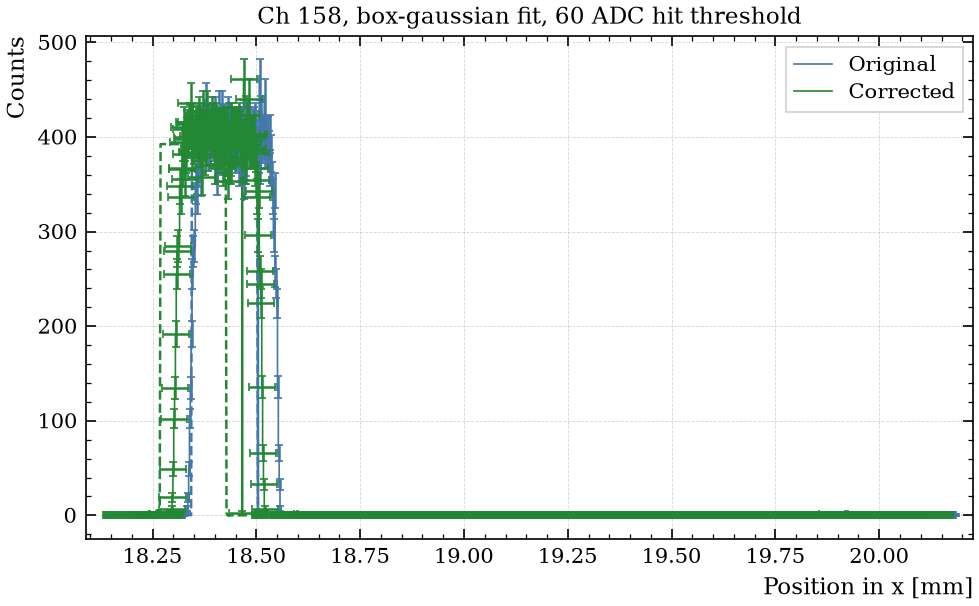
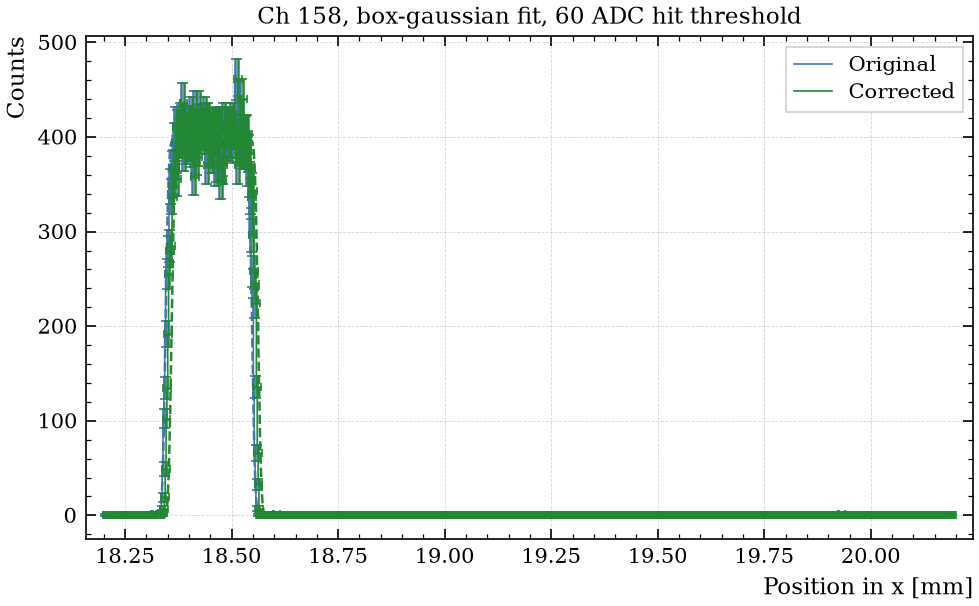
ana

diff --git a/x_scan.py b/x_scan.py
@@ -13,7 +13,7 @@ import warnings
 from scipy.optimize import OptimizeWarning
 
 from base_analysis import BaseAnalysis, isdir, ADC_CLEAN, CHANNEL_HITS
-from fits import fit_peak
+from fits import fit_peak, spike_mask
 from plot_helpers import clean_adc, plot_adc
 
 
@@ -74,6 +74,8 @@ class XScan(BaseAnalysis):
             s = hits[ch].sort_index()
             x = s.index.to_numpy(dtype=float)
             y = s.to_numpy(dtype=float)
+            keep = spike_mask(x, y)
+            x, y = x[keep], y[keep]
             try:
                 with warnings.catch_warnings():
                     warnings.simplefilter("error", RuntimeWarning)
@@ -89,7 +91,7 @@ class XScan(BaseAnalysis):
                 edges = np.append(x - step / 2, x[-1] + step / 2)
                 ax.stairs(y, edges, color="C0", label="Hits")
                 ax.errorbar(x, y, yerr=np.sqrt(np.maximum(y, 1)), fmt="none", ecolor="C0", capsize=2)
-                ax.plot(xr, curve(xr), color="C1", label="Fit")
+                ax.plot(xr, curve(xr), color="C1", label=f"Fit: popt = [{popt[0]:.3f}, {popt[1]:.3f}, {popt[2]:.3f}, {popt[3]:.3f}]")
                 ax.legend()
                 fits[ch] = (x, y, curve, step)
                 # ax.set_xlim(popt[1] - 5 * popt[2], popt[1] + 5 * popt[2])

diff --git a/fits.py b/fits.py
@@ -51,10 +51,9 @@ def fit_peak(model, x, y, yerr, xerr, pitch, base=0.0, bounded=True, maxfev=1000
     x = np.asarray(x, dtype=float)
     y = np.asarray(y, dtype=float)
     yerr = np.broadcast_to(np.asarray(yerr, dtype=float), y.shape)
-    if model == "box_gaussian":
-        # Remove spikes before the start values are taken, with the same points removed from yerr
-        keep = spike_mask(x, y)
-        x, y, yerr = x[keep], y[keep], yerr[keep]
+    # if model == "box_gaussian":
+    #     keep = spike_mask(x, y)
+    #     x, y, yerr = x[keep], y[keep], yerr[keep]
     argmax = np.argmax(y)
     peak = y[argmax]
     above = x[y > base + (peak - base) / 2]
@@ -125,8 +124,8 @@ def polyfit_xerr(x, y, yerr, xerr, deg=2, n_iter=2):
 
 
 def spike_mask(x: np.ndarray, y: np.ndarray):
-    """True for the points to keep."""
+    """Removes spikes larger than half of the max-min difference"""
     diff = y.max() - y.min()
-    dydx = np.gradient(y, x)
+    step = np.abs(np.diff(y, prepend=y[0]))
 
-    return np.abs(dydx) <= diff / 2
+    return np.abs(step) < diff / 2
